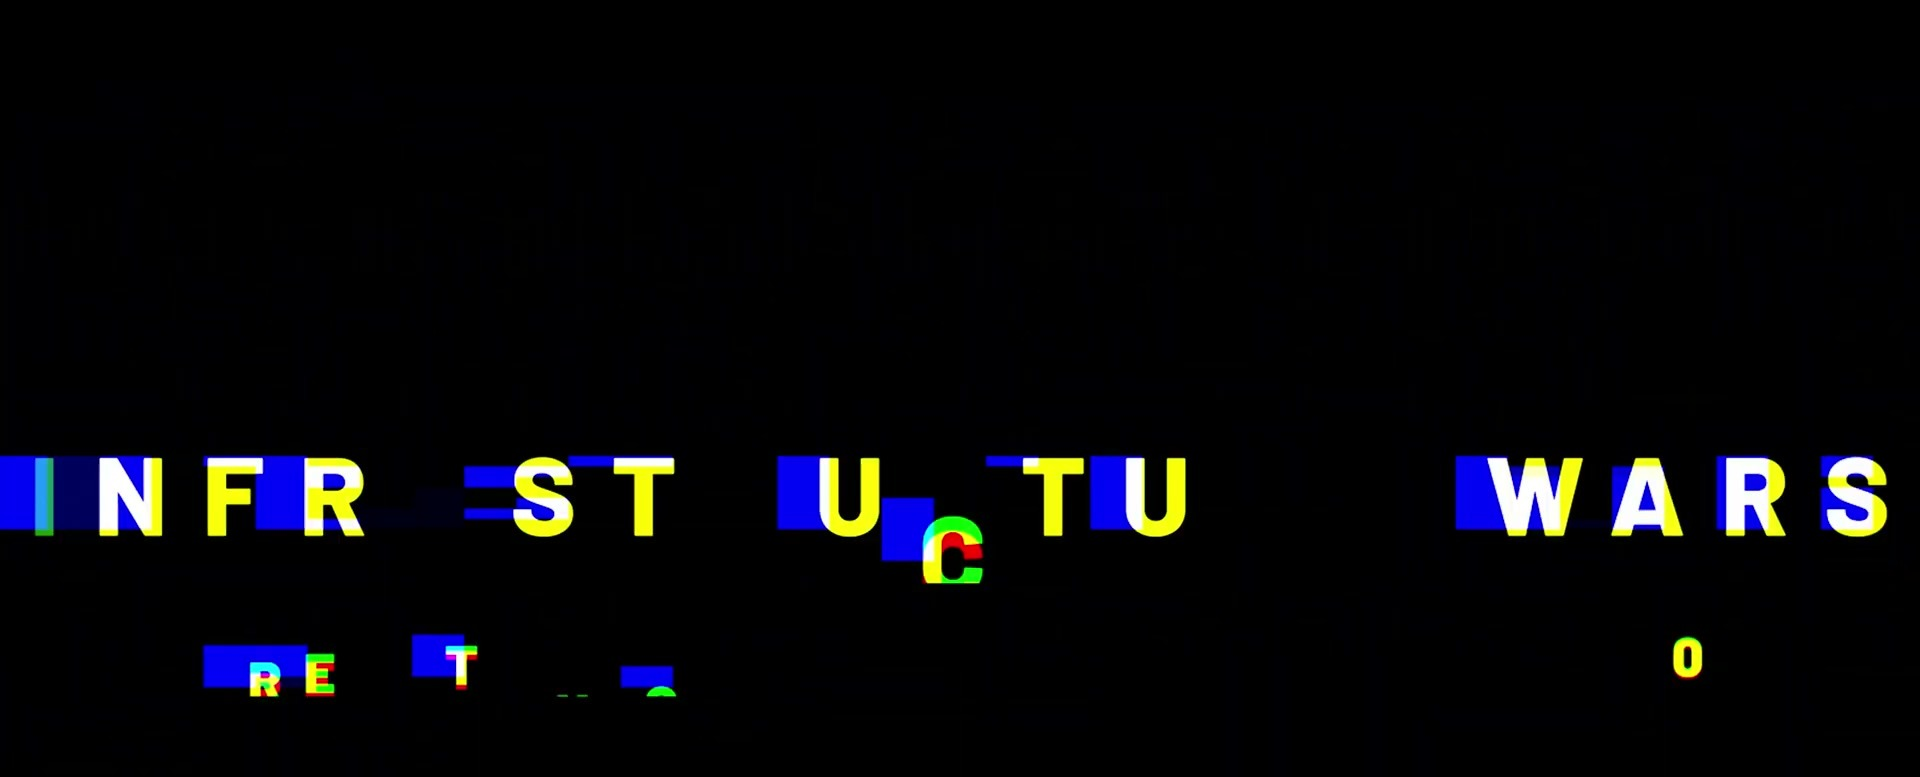
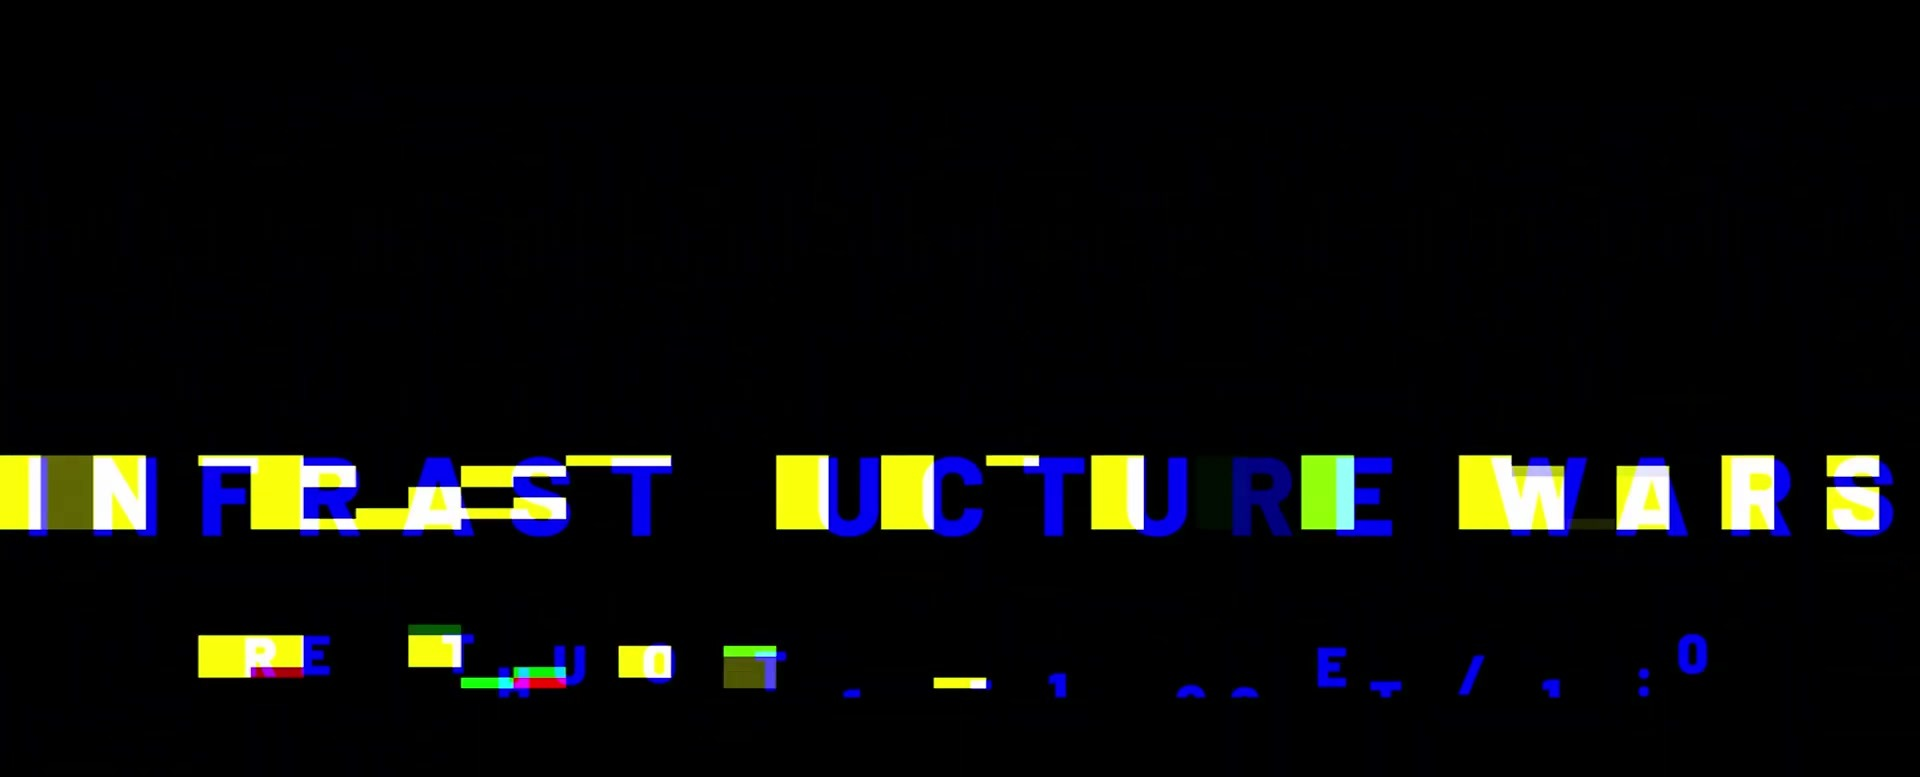
Update Infrastructure Wars and Human Tide card thumbnails.
Infrastructure Wars: trailer frame 39.42s (later chromatic title).
Human Tide: cinematic aerial snow road from trailer at 10s, object-cover.

diff --git a/src/data/video-fit.ts b/src/data/video-fit.ts
@@ -6,7 +6,7 @@ export const portraitVideoSlugs = new Set([
 ]);
 
 /** Posters that must show in full (letterbox) — e.g. title on image edges. */
-export const containPosterSlugs = new Set(["human-tide", "infrastructure-wars"]);
+export const containPosterSlugs = new Set(["infrastructure-wars"]);
 
 export function getPosterFitClass(slug: string): string {
   if (containPosterSlugs.has(slug)) return "object-contain";